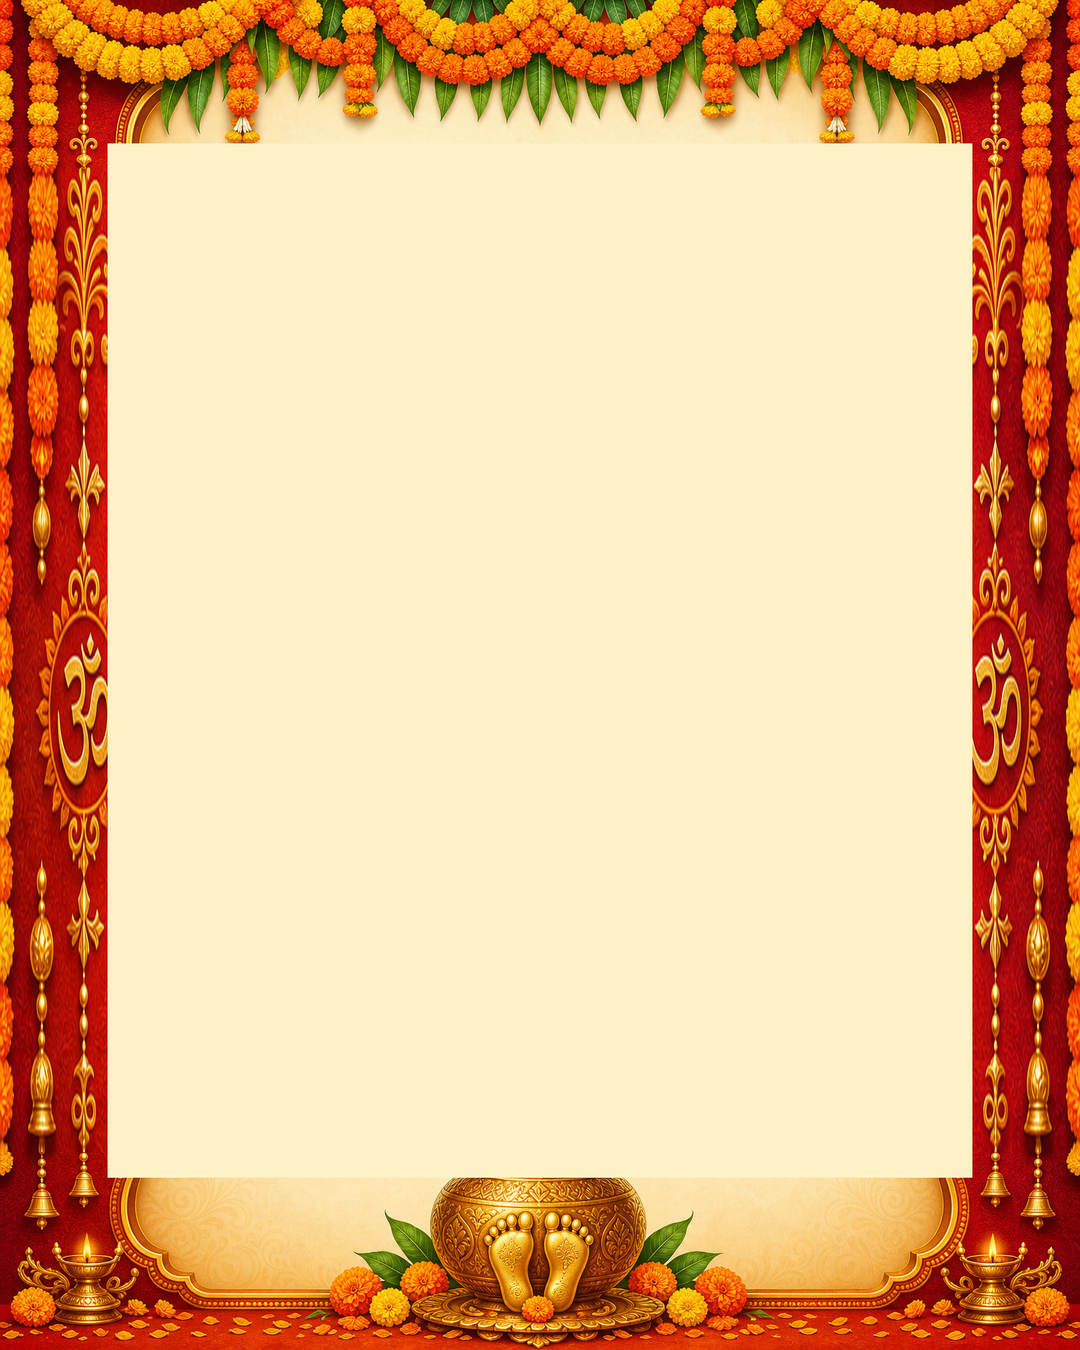
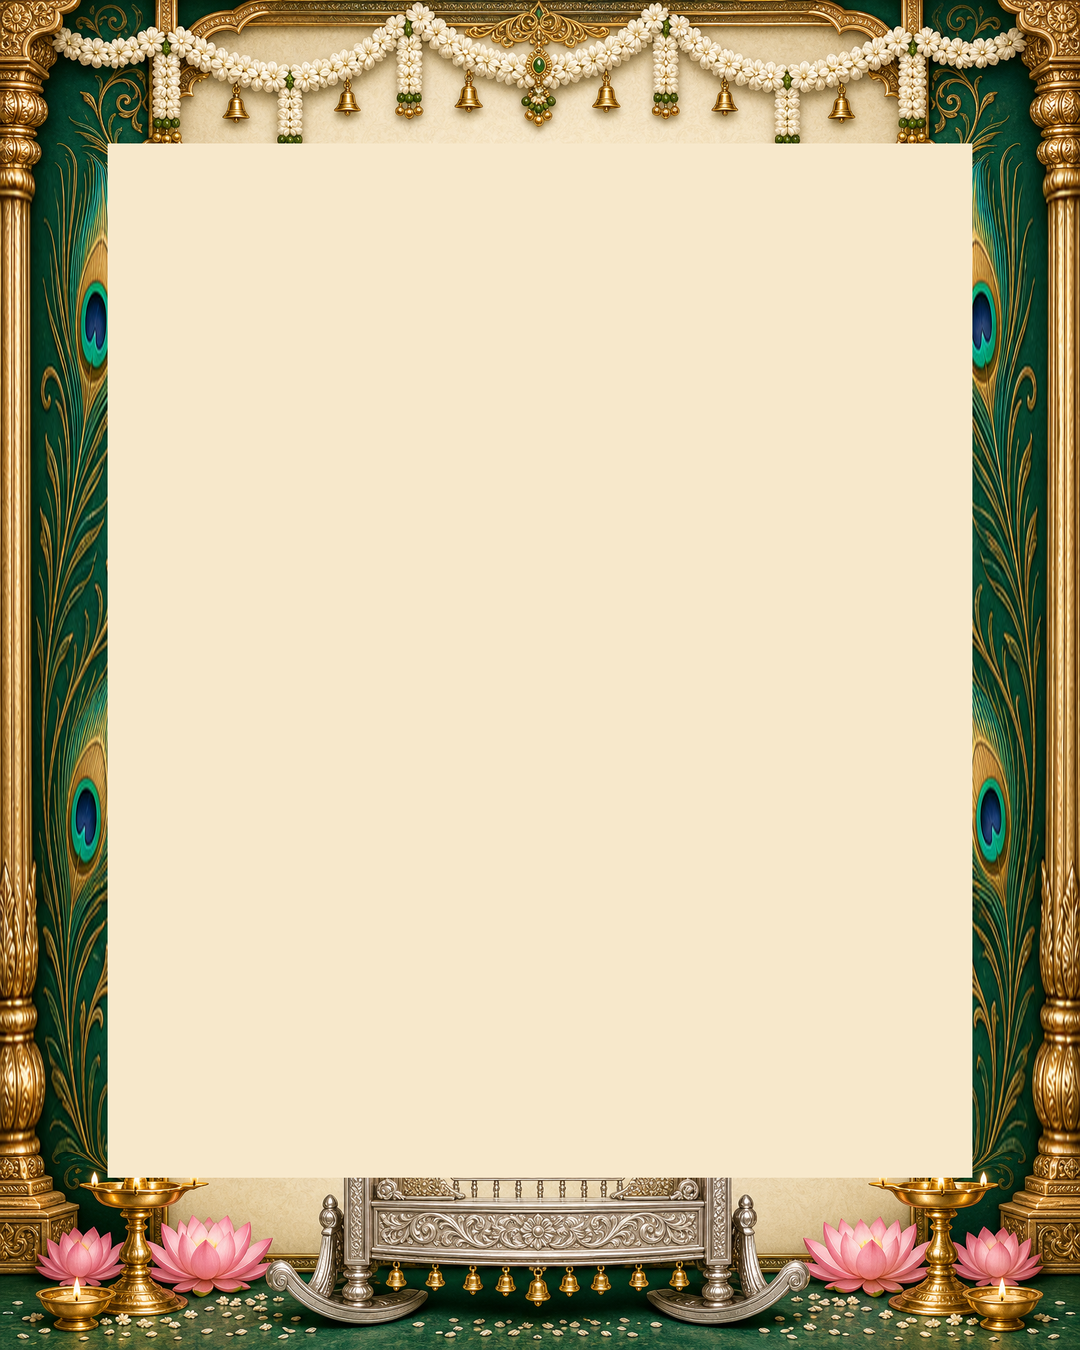
New illustrated naming_05 master: Jade Peacock Cradle
Replace vermillion master with emerald jade peacock feather design, silver
cradle and jasmine toran. Support single-stem import in import script.

diff --git a/app/src/main/java/com/vaangainvite/data/repository/TemplateRepository.kt b/app/src/main/java/com/vaangainvite/data/repository/TemplateRepository.kt
@@ -306,10 +306,10 @@ class TemplateRepository {
         photoTemplate(
             id = "naming_05",
             categoryId = "naming",
-            title = "Sunset Vermillion Blessing",
-            description = "Warm vermillion — marigold toran, Om motifs & golden footprints.",
+            title = "Jade Peacock Cradle",
+            description = "Emerald jade — peacock feather sides, jasmine toran & silver cradle.",
             resId = R.drawable.bg_naming_05,
-            primaryColor = 0xFFC62828.toInt()
+            primaryColor = 0xFF00695C.toInt()
         ),
 
         // Baby shower — illustrated WebP photo cards (pastel engagement-style art)

diff --git a/tools/import_05_landscape_masters.py b/tools/import_05_landscape_masters.py
@@ -3,12 +3,13 @@
 Import illustrated landscape masters into portrait photo-card sources.
 
     python3 tools/import_05_landscape_masters.py
-    python3 tools/convert_photo_backgrounds.py --prefix engagement
+    python3 tools/import_05_landscape_masters.py --stem naming_05 --art naming_05_landscape_master.png
     python3 tools/convert_photo_backgrounds.py --prefix naming
 """
 
 from __future__ import annotations
 
+import argparse
 import sys
 from pathlib import Path
 
@@ -23,7 +24,7 @@ LANDSCAPE = (1536, 1024)
 SRC = TOOLS / "bg_sources"
 ART = Path("/opt/cursor/artifacts/assets")
 
-MASTERS: tuple[tuple[str, str], ...] = (
+DEFAULT_MASTERS: tuple[tuple[str, str], ...] = (
     ("engagement_05_landscape_master.png", "engagement_05"),
     ("naming_05_landscape_master.png", "naming_05"),
 )
@@ -38,10 +39,15 @@ def flatten_center_panel(im: Image.Image) -> Image.Image:
     return out
 
 
-def import_one(art_name: str, stem: str) -> None:
-    src_path = ART / art_name
-    if not src_path.exists():
-        raise FileNotFoundError(f"Master art missing: {src_path}")
+def resolve_art_path(art_name: str, art_dir: Path) -> Path:
+    for candidate in (art_dir / art_name, SRC / art_name):
+        if candidate.exists():
+            return candidate
+    raise FileNotFoundError(f"Master art missing: {art_name} (checked {art_dir} and {SRC})")
+
+
+def import_one(art_name: str, stem: str, *, art_dir: Path = ART) -> None:
+    src_path = resolve_art_path(art_name, art_dir)
 
     landscape = Image.open(src_path).convert("RGB").resize(LANDSCAPE, Image.Resampling.LANCZOS)
     backup = SRC / f"{stem}_source_landscape_backup.png"
@@ -60,9 +66,20 @@ def import_one(art_name: str, stem: str) -> None:
 
 
 def main() -> int:
+    parser = argparse.ArgumentParser()
+    parser.add_argument("--stem", help="Import one template stem, e.g. naming_05")
+    parser.add_argument("--art", help="Master PNG filename or path")
+    parser.add_argument("--art-dir", type=Path, default=ART)
+    args = parser.parse_args()
+
     SRC.mkdir(parents=True, exist_ok=True)
-    for art, stem in MASTERS:
-        import_one(art, stem)
+    if args.stem:
+        art = args.art or f"{args.stem}_landscape_master.png"
+        import_one(art, args.stem, art_dir=args.art_dir)
+        return 0
+
+    for art, stem in DEFAULT_MASTERS:
+        import_one(art, stem, art_dir=args.art_dir)
     return 0
 
 

diff --git a/docs/samples/naming/README.md b/docs/samples/naming/README.md
@@ -12,7 +12,7 @@ Five **designed WebP** namakaran photo cards (same layout as engagement):
 | naming_02 | Royal Blue Namakaran |
 | naming_03 | Turmeric Blessing |
 | naming_04 | Moon & Lotus |
-| naming_05 | Sunset Vermillion Blessing |
+| naming_05 | Jade Peacock Cradle |
 
 Regenerate: `PREVIEW_OUTPUT_DIR=docs/samples/naming ./gradlew testDebugUnitTest --tests "NamingSampleExportTest"`
 
